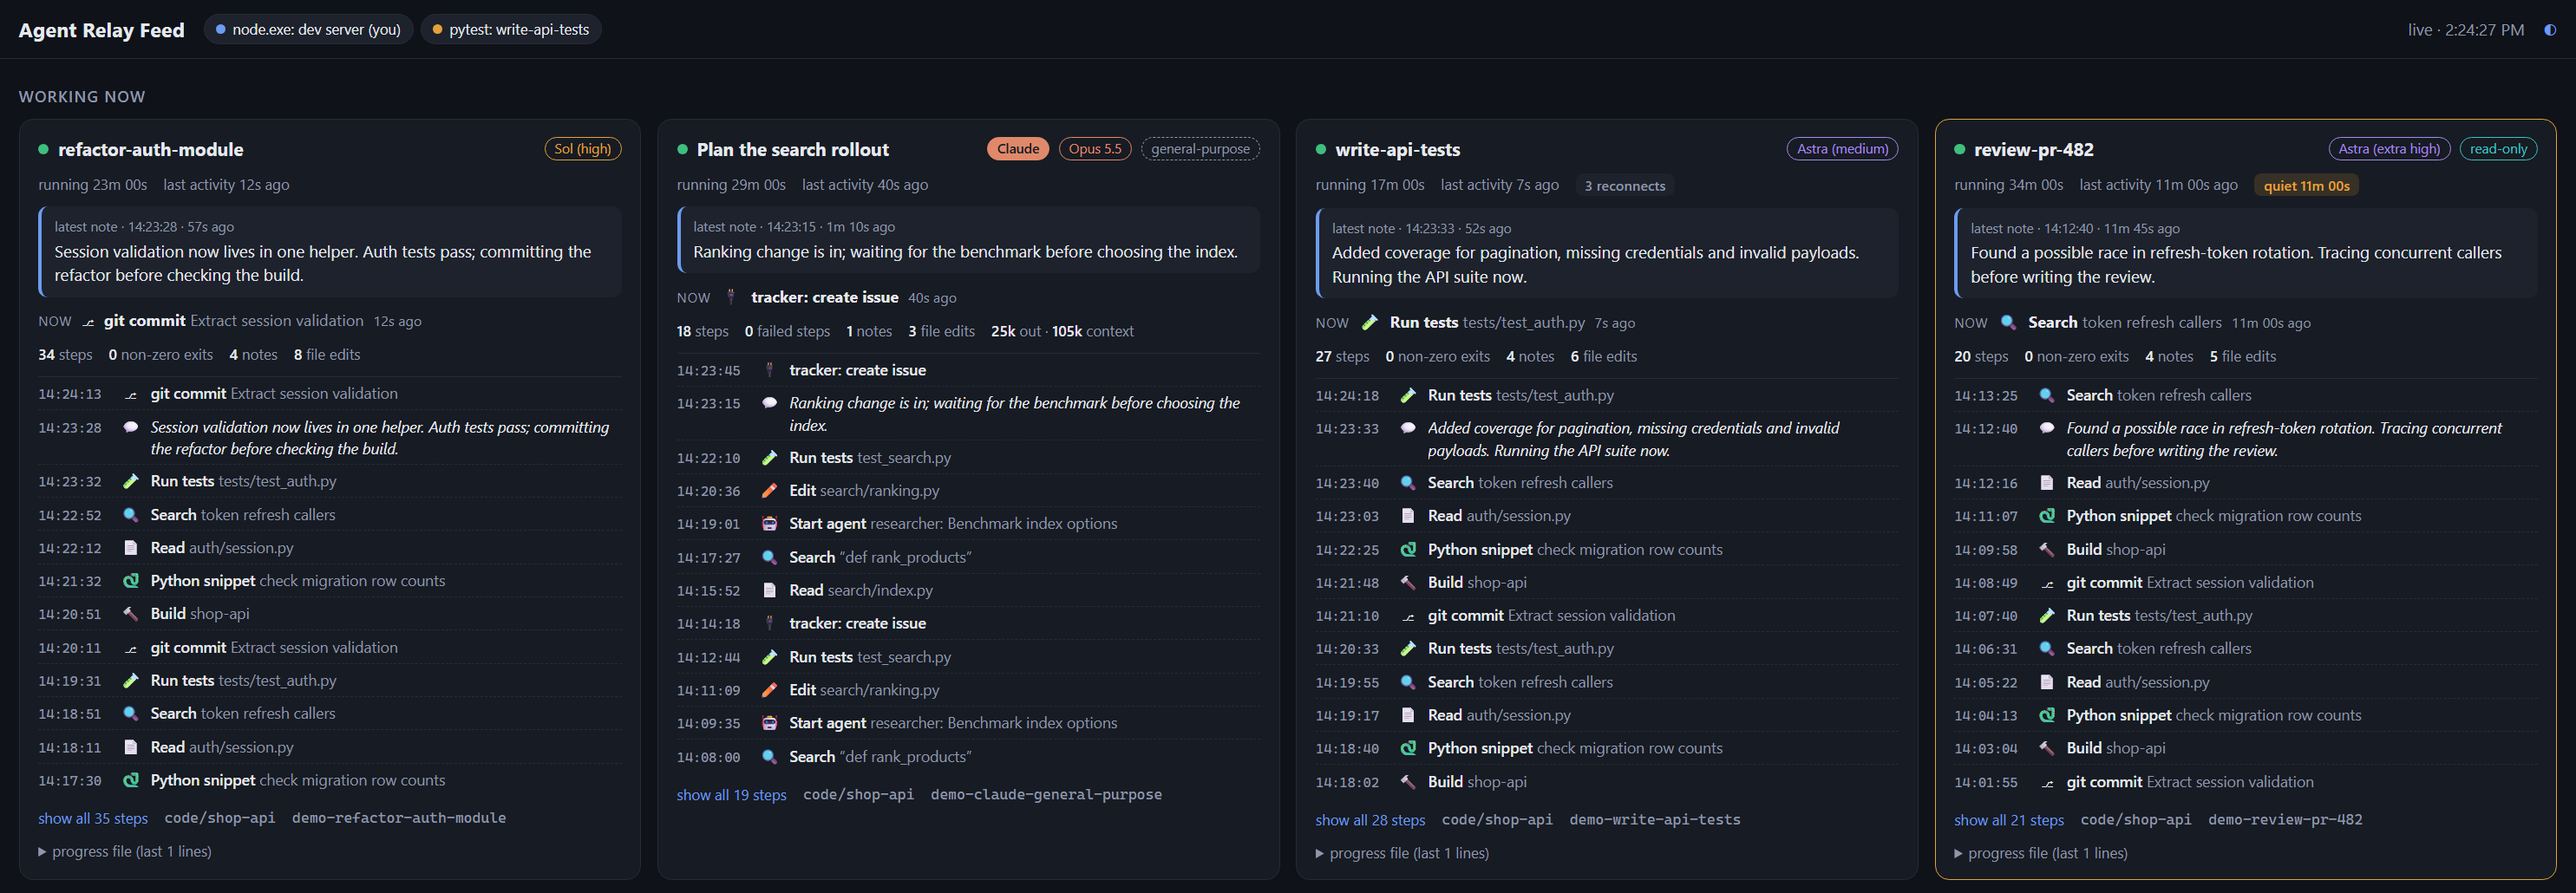
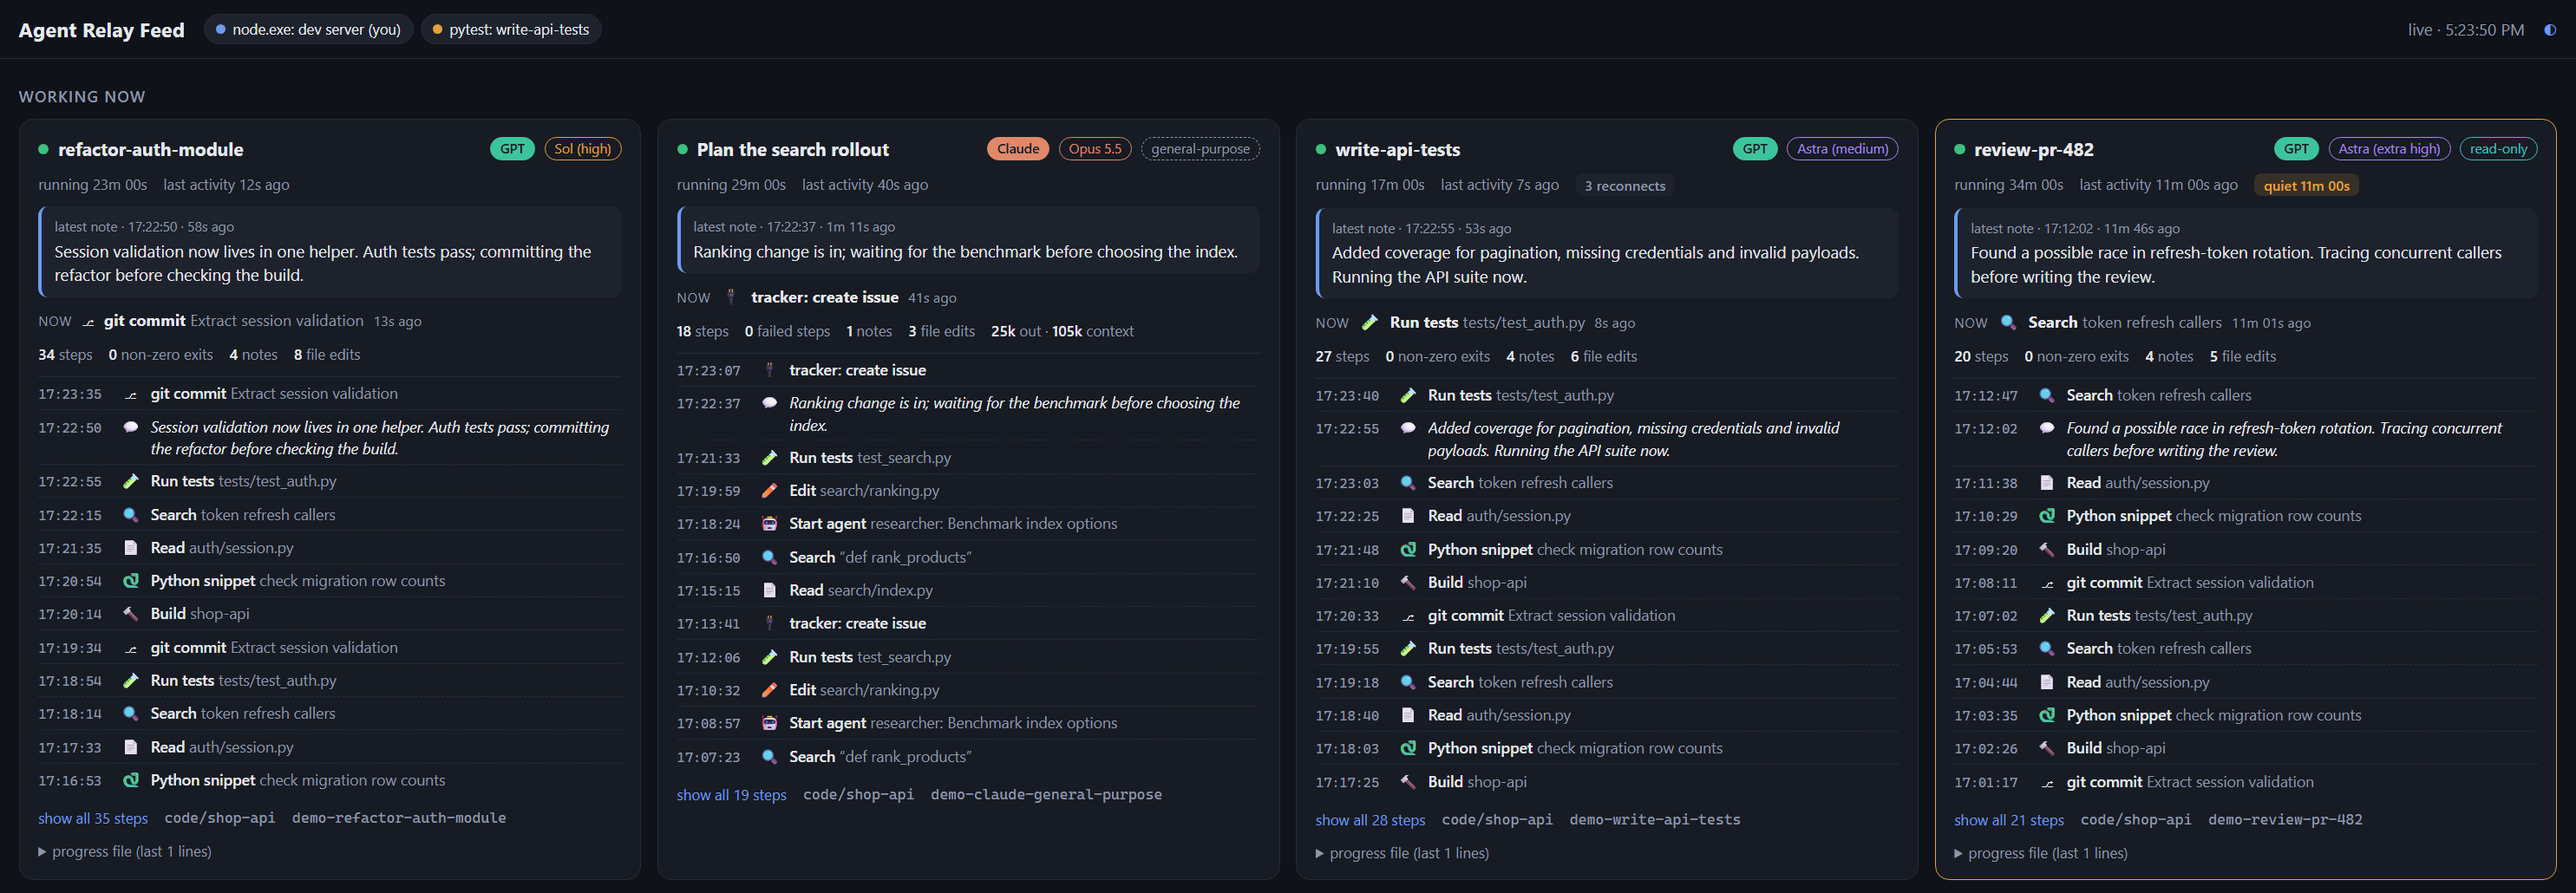
Feed: GPT and Kimi provider badges on relay cards, like the Claude badge
Relay cards now lead with a filled provider badge taken from the job's backend
(GPT for the Codex CLI, Kimi for the Kimi Code CLI), followed by the model and
effort; the Kimi model chip drops its now-redundant prefix. README screenshot
refreshed.

Changed region(s): [[0.6505, 0.1553, 0.7125, 0.1864], [0.8673, 0.1553, 0.8983, 0.1864], [0.1859, 0.1553, 0.2168, 0.1864]]

diff --git a/feed.html b/feed.html
@@ -11,18 +11,19 @@
   --bg: #f6f7f9; --panel: #ffffff; --ink: #1d2330; --muted: #677085; --line: #e3e6ec; --soft: #f0f2f6;
   --green: #1f9d55; --amber: #c27c0e; --red: #d64545; --blue: #2f6fd6; --violet: #7b4fd1; --teal: #128a8a;
   --code: #eef1f6; --shadow: 0 1px 2px rgba(20,30,50,.06), 0 4px 14px rgba(20,30,50,.05); --claude: #c15f3c;
+  --gpt: #0e8f6f; --kimi: #2f6fd6;
 }
 @media (prefers-color-scheme: dark) {
   :root:not([data-theme="light"]) {
     --bg: #0f1218; --panel: #171b23; --ink: #e6e9ef; --muted: #8f98aa; --line: #262c38; --soft: #1d222c;
     --green: #3fbf7f; --amber: #e3a23b; --red: #ef6b6b; --blue: #6c9cf0; --violet: #a789ee; --teal: #3cc2c2;
-    --code: #222836; --shadow: none; --claude: #e0896a;
+    --code: #222836; --shadow: none; --claude: #e0896a; --gpt: #3cc59c; --kimi: #6c9cf0;
   }
 }
 :root[data-theme="dark"] {
   --bg: #0f1218; --panel: #171b23; --ink: #e6e9ef; --muted: #8f98aa; --line: #262c38; --soft: #1d222c;
   --green: #3fbf7f; --amber: #e3a23b; --red: #ef6b6b; --blue: #6c9cf0; --violet: #a789ee; --teal: #3cc2c2;
-  --code: #222836; --shadow: none; --claude: #e0896a;
+  --code: #222836; --shadow: none; --claude: #e0896a; --gpt: #3cc59c; --kimi: #6c9cf0;
 }
 * { box-sizing: border-box; }
 body { margin: 0; background: var(--bg); color: var(--ink);
@@ -53,6 +54,8 @@ h2 { font-size: 13px; text-transform: uppercase; letter-spacing: .08em; color: v
 .chip { font-size: 11.5px; padding: 1px 8px; border-radius: 999px; border: 1px solid currentColor; white-space: nowrap; }
 .m-sol { color: var(--amber); } .m-astra { color: var(--violet); } .m-kimi { color: var(--blue); } .m-other { color: var(--muted); }
 .m-claude { color: var(--claude); } .chip.src-claude { background: var(--claude); border-color: var(--claude); color: var(--panel); font-weight: 600; }
+.chip.src-gpt { background: var(--gpt); border-color: var(--gpt); color: var(--panel); font-weight: 600; }
+.chip.src-kimi { background: var(--kimi); border-color: var(--kimi); color: var(--panel); font-weight: 600; }
 .chip.kind { color: var(--muted); border-style: dashed; }
 .chip.full { color: var(--red); } .chip.read { color: var(--teal); }
 .live { width: 9px; height: 9px; border-radius: 50%; background: var(--green); box-shadow: 0 0 0 0 var(--green);
@@ -154,8 +157,11 @@ function model(j, compact) {
     return `<span class="chip src-claude" title="Claude Code subagent (${esc(p)})">Claude</span> <span class="chip m-claude">${esc(j.label)}</span>` +
       (compact ? '' : `<span class="chip kind" title="agent type">${esc(p)}</span>`);
   const cls = p.includes('sol') ? 'm-sol' : p.includes('astra') ? 'm-astra' : p.includes('kimi') ? 'm-kimi' : 'm-other';
-  const name = (j.label || p).replace('GPT-6.1-', '').replace('GPT-6-', '').replace(' Preview', '');
-  return `<span class="chip ${cls}">${esc(name)}</span>`;
+  const name = (j.label || p).replace('GPT-6.1-', '').replace('GPT-6-', '').replace(' Preview', '').replace(/^Kimi /, '');
+  // Relay job: provider badge (from the backend), then the model and effort.
+  const src = j.backend === 'kimi' ? ['src-kimi', 'Kimi', 'Moonshot Kimi via the Kimi Code CLI']
+    : j.backend === 'codex' ? ['src-gpt', 'GPT', 'OpenAI model via the Codex CLI'] : null;
+  return (src ? `<span class="chip ${src[0]}" title="${src[2]}">${src[1]}</span> ` : '') + `<span class="chip ${cls}">${esc(name)}</span>`;
 }
 function tok(n) { return n >= 1e6 ? (n / 1e6).toFixed(1) + 'M' : n >= 1e3 ? Math.round(n / 1e3) + 'k' : String(n || 0); }
 function nested(j) {
